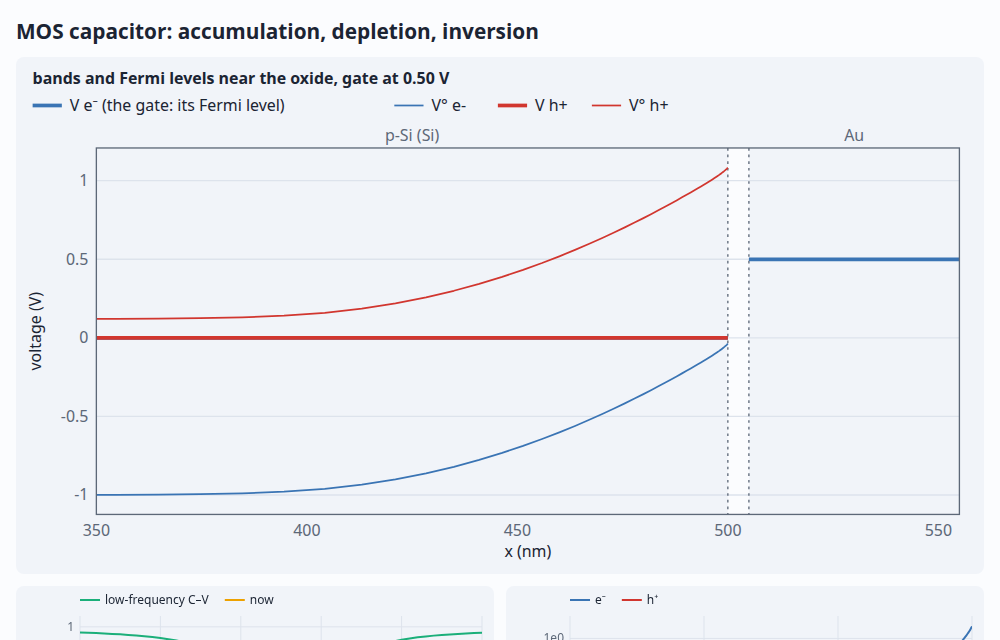
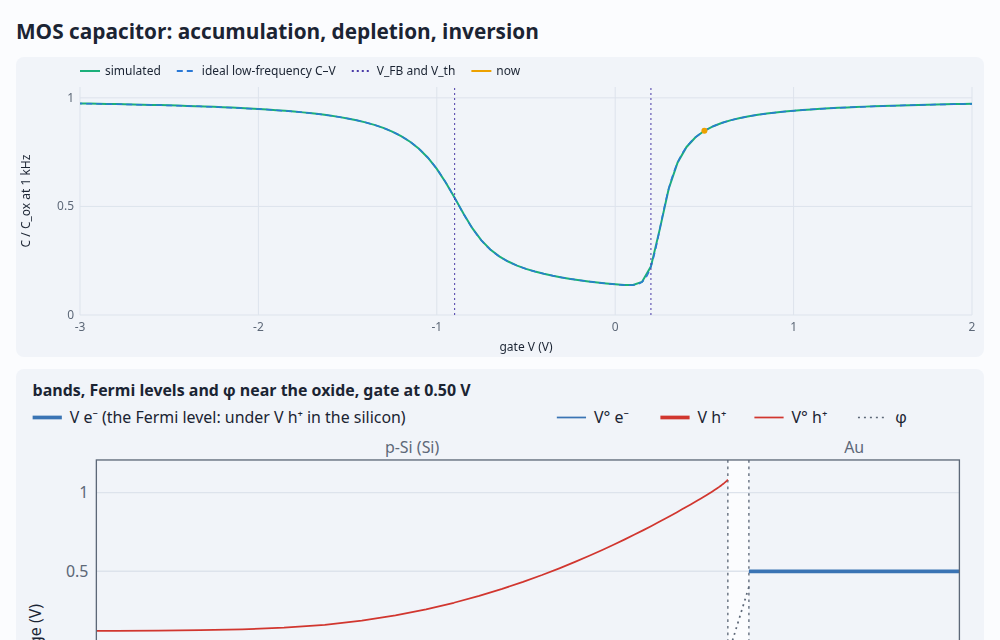
MOS demo: a doping control, the C–V against ideal low-frequency theory with V_FB and V_th, φ through the oxide, aligned densities

diff --git a/demos/mos.html b/demos/mos.html
@@ -10,89 +10,128 @@
 <main>
   <h1>MOS capacitor: accumulation, depletion, inversion</h1>
   <p>p-type silicon under 5 nm of oxide and a metal gate. The gate voltage sets the gate metal's Fermi level;
-    the silicon's bands bend at the surface to meet it. Negative bias pulls holes to the surface
-    (accumulation), moderate positive bias pushes them away (depletion), and beyond threshold electrons gather
-    in a thin inversion layer. Those electrons come from a port holding them at ground beside the oxide, the
-    1D stand-in for a transistor's source and drain; without it, they'd have to diffuse in from the back
-    contact. The capacitance at 1 kHz then follows the low-frequency C–V curve.</p>
+    the silicon's bands bend at the surface to meet it, and φ (dotted) drops straight across the oxide, its
+    slope the oxide field. (In the silicon φ runs along the conduction band edge, where the library's data
+    anchor it.) Negative bias pulls holes to the surface (accumulation), moderate positive bias
+    pushes them away (depletion), and beyond threshold electrons gather in a thin inversion layer. Those
+    electrons come from a port holding them at ground beside the oxide, the 1D stand-in for a transistor's
+    source and drain; without it, they'd have to diffuse in from the back contact.</p>
+  <p>The capacitance at 1 kHz follows the ideal low-frequency C–V curve (dashed: the oxide in series with the
+    silicon's dQ/dψ, from the closed-form surface charge), to four digits. Flat band is at
+    V<sub>FB</sub> = zeroCharge + φ<sub>bulk</sub>, set by the gate interface's work-function difference;
+    threshold is where the surface has inverted as strongly as the bulk is doped, ψ<sub>s</sub> = 2φ<sub>F</sub>.
+    More doping widens the window between them and deepens the dip.</p>
   <div class="controls">
     <label>gate V <input id="V" type="range" min="-3" max="2" step="0.05" value="0.5"><output id="Vout"></output></label>
+    <label>doping <input id="NA" type="range" min="16" max="18" step="0.25" value="17"><output id="NAout"></output></label>
     <span class="readout" id="Q"></span>
   </div>
   <div class="grid">
+    <canvas class="wide" id="cv"></canvas>
     <div class="levels wide" id="levels"></div>
-    <canvas id="cv"></canvas>
-    <canvas id="conc"></canvas>
+    <div class="levels wide" id="conc"></div>
   </div>
 </main>
 <script type="module">
-import { Device, EPS0, AVOGADRO, units } from '../src/index.js';
+import { Device, EPS0, AVOGADRO, FARADAY, GAS_CONSTANT, units } from '../src/index.js';
 import { build, layer, ohmic, semiconductor, metal, live } from '../src/kit.js';
 import { chart, colors } from './plot.js';
-import { levels, showCode, fromQuery, speciesColor } from './common.js';
+import { levels, profiles, showCode, fromQuery } from './common.js';
 
-const Lsi = units.um(0.5), tox = units.nm(5);
-const def = build({
-  T: 300,
-  library: [semiconductor('Si'), metal('Au')],
-  materials: { SiO2: { epsr: 3.9, species: {} } }, // an insulator: no mobile species
-  stack: [
-    ohmic(0), // the back contact
-    layer('Si', Lsi, { name: 'p-Si', acceptors: units.perCm3(1e17) }),
-    { dipole: 0 }, // Si | SiO2: φ continuous (the oxide has no levels of its own to align)
-    layer('SiO2', tox, { grid: { hmin: units.nm(0.5), hmax: units.nm(1) } }),
-    // Oxide | gate metal. Its zeroCharge, the gate's Fermi level minus φ there when it's uncharged,
-    // is a property of this interface (a work-function difference). φ in this p-Si bulk is −1.00 V
-    // (the library anchors φ at the conduction band), so the flat-band voltage is 0.1 − 1.0 = −0.9 V.
-    { phi: { type: 'capacitive', C: 100 }, zeroCharge: 0.1 },
-    layer('Au', units.nm(50)),
-    ohmic(0, ['e-']), // the gate's terminal
-  ],
-  // Source and drain in 1D: the inversion layer's electrons held at ground beside the oxide.
-  ports: [{ name: 'channel', region: 'p-Si', from: Lsi - units.nm(5), V: 0, terminal: 'e-', species: { 'e-': 'equilibrium' } }],
-  grid: { hmin: units.nm(0.1), hmax: units.nm(10), ratio: 1.1 },
-});
+const Lsi = units.um(0.5), tox = units.nm(5), zeroCharge = 0.1;
+const mos = (NA) =>
+  build({
+    T: 300,
+    library: [semiconductor('Si'), metal('Au')],
+    materials: { SiO2: { epsr: 3.9, species: {} } }, // an insulator: no mobile species
+    stack: [
+      ohmic(0), // the back contact
+      layer('Si', Lsi, { name: 'p-Si', acceptors: NA }),
+      { dipole: 0 }, // Si | SiO2: φ continuous (the oxide has no levels of its own to align)
+      layer('SiO2', tox, { grid: { hmin: units.nm(0.5), hmax: units.nm(1) } }),
+      // Oxide | gate metal. Its zeroCharge, the gate's Fermi level minus φ there when it's uncharged,
+      // is a property of this interface (a work-function difference): it sets the flat-band voltage.
+      { phi: { type: 'capacitive', C: 100 }, zeroCharge },
+      layer('Au', units.nm(50)),
+      ohmic(0, ['e-']), // the gate's terminal
+    ],
+    // Source and drain in 1D: the inversion layer's electrons held at ground beside the oxide.
+    ports: [{ name: 'channel', region: 'p-Si', from: Lsi - units.nm(5), V: 0, terminal: 'e-', species: { 'e-': 'equilibrium' } }],
+    grid: { hmin: units.nm(0.1), hmax: units.nm(10), ratio: 1.1 },
+  });
 
-// The C–V curve, once, from the small-signal impedance at 1 kHz at each gate voltage.
-const sweep = new Device(def), Cox = (3.9 * EPS0) / tox, cv = { V: [], C: [] };
-for (let V = -3; V <= 2.001; V += 0.1) {
-  sweep.set({ contacts: { right: { V } } });
-  const Z = sweep.impedance([1e3]).Z;
-  cv.V.push(V);
-  cv.C.push(-1 / (2 * Math.PI * 1e3 * Z.im[0]) / Cox);
+const gate = document.getElementById('V'), doping = document.getElementById('NA');
+fromQuery(gate);
+fromQuery(doping);
+const NA = () => units.perCm3(10 ** +doping.value); // from 1e16: below, depletion would reach the back contact
+
+// The ideal low-frequency C–V: the surface charge Q_s(ψ_s) in closed form (p₀, n₀ the bulk's
+// densities), the gate voltage V_FB + ψ_s − Q_s/C_ox, and C_ox in series with dQ_s/dψ_s.
+const kT = GAS_CONSTANT * 300, VT = kT / FARADAY, eps = 11.9 * EPS0, Cox = (3.9 * EPS0) / tox;
+function ideal({ p0, n0, VFB }) {
+  const Qs = (psi) => {
+    const b = psi / VT, F2 = Math.exp(-b) + b - 1 + (n0 / p0) * (Math.exp(b) - b - 1);
+    return -Math.sign(psi) * Math.sqrt(2 * eps * kT * p0 * Math.max(F2, 0));
+  };
+  const V = [], C = [];
+  for (let psi = -0.4; psi <= 1.4; psi += 0.005) {
+    const h = 1e-5, Cs = Math.abs(Qs(psi + h) - Qs(psi - h)) / (2 * h);
+    V.push(VFB + psi - Qs(psi) / Cox);
+    C.push(1 / (1 + Cox / Cs));
+  }
+  const phiF = VT * Math.log(p0 / Math.sqrt(p0 * n0));
+  return { V, C, VFB, Vth: VFB + 2 * phiF - Qs(2 * phiF) / Cox };
 }
 
-const dev = live(def, { onsolution: draw });
-const slider = document.getElementById('V');
-fromQuery(slider);
-slider.addEventListener('input', () => dev.set({ contacts: { right: { V: +slider.value } } }));
-dev.set({ contacts: { right: { V: +slider.value } } });
+// The C–V curve from the small-signal impedance at 1 kHz at each gate voltage, and the theory.
+let cv;
+function sweep() {
+  const dev = new Device(mos(NA())), rest = dev.solve(), bulk = Math.floor(rest.x.length / 5);
+  cv = { V: [], C: [], theory: ideal({ p0: rest.c['h+'][bulk], n0: rest.c['e-'][bulk], VFB: zeroCharge + rest.phi[bulk] }) };
+  for (let V = -3; V <= 2.001; V += 0.05) {
+    dev.set({ contacts: { right: { V } } });
+    cv.V.push(V);
+    cv.C.push(-1 / (2 * Math.PI * 1e3 * dev.impedance([1e3]).Z.im[0]) / Cox);
+  }
+}
+sweep();
+
+const dev = live(mos(NA()), { onsolution: draw });
+const update = () => dev.set({ contacts: { right: { V: +gate.value } } });
+gate.addEventListener('input', update);
+doping.addEventListener('input', () => (document.getElementById('NAout').textContent = `${(10 ** +doping.value).toExponential(1)} cm⁻³`));
+doping.addEventListener('change', () => {
+  sweep();
+  dev.set(mos(NA()));
+  update();
+});
+update();
 
 function draw(sol) {
-  const V = sol.terminals.right.V;
+  const V = sol.terminals.right.V, { VFB, Vth } = cv.theory;
   document.getElementById('Vout').textContent = `${V.toFixed(2)} V`;
+  document.getElementById('NAout').textContent = `${(10 ** +doping.value).toExponential(1)} cm⁻³`;
   const surface = sol.x.findLastIndex((x, g) => sol.region[g] === 0);
   const perCm3 = (c) => (c * AVOGADRO * 1e-6).toExponential(1);
-  document.getElementById('Q').textContent = `at the silicon surface: n = ${perCm3(sol.c['e-'][surface])} cm⁻³, p = ${perCm3(sol.c['h+'][surface])} cm⁻³`;
-  levels(document.getElementById('levels'), sol, {
-    title: `bands and Fermi levels near the oxide, gate at ${V.toFixed(2)} V`,
-    xlim: [Lsi - units.nm(150), sol.x.at(-1)],
-    labels: { 'V:e-': 'V e⁻ (the gate: its Fermi level)' },
-  });
+  document.getElementById('Q').textContent =
+    `V_FB = ${VFB.toFixed(2)} V · V_th = ${Vth.toFixed(2)} V · at the silicon surface: n = ${perCm3(sol.c['e-'][surface])} cm⁻³, p = ${perCm3(sol.c['h+'][surface])} cm⁻³`;
   chart(document.getElementById('cv'), {
-    xlabel: 'gate V (V)', ylabel: 'C / C_ox at 1 kHz', ylim: [0, 1.05],
+    xlabel: 'gate V (V)', ylabel: 'C / C_ox at 1 kHz', xlim: [-3, 2], ylim: [0, 1.05],
     series: [
-      { x: cv.V, y: cv.C, color: colors[2], label: 'low-frequency C–V' },
-      { x: [V], y: [cv.C[Math.round((V + 3) / 0.1)]], color: colors[3], marker: true, width: 0, label: 'now' },
+      { x: cv.V, y: cv.C, color: colors[2], label: 'simulated' },
+      { x: cv.theory.V, y: cv.theory.C, color: colors[0], dash: [6, 4], width: 1.5, label: 'ideal low-frequency C–V' },
+      { x: [VFB, VFB, NaN, Vth, Vth], y: [0, 1.05, NaN, 0, 1.05], color: colors[6], dash: [2, 3], width: 1, label: 'V_FB and V_th' },
+      { x: [V], y: [cv.C[Math.round((V + 3) / 0.05)]], color: colors[3], marker: true, width: 0, label: 'now' },
     ],
   });
-  chart(document.getElementById('conc'), {
-    xscale: 1e9, xlabel: 'x (nm)', ylabel: 'concentration (mol/m³)', logy: true, xlim: [(Lsi - units.nm(150)) * 1e9, Lsi * 1e9],
-    series: [
-      { x: sol.x, y: sol.c['e-'], color: speciesColor(sol, 'e-'), label: 'e⁻' },
-      { x: sol.x, y: sol.c['h+'], color: speciesColor(sol, 'h+'), label: 'h⁺' },
-    ],
+  const xlim = [Lsi - units.nm(150), sol.x.at(-1)];
+  levels(document.getElementById('levels'), sol, {
+    title: `bands, Fermi levels and φ near the oxide, gate at ${V.toFixed(2)} V`,
+    phi: true,
+    xlim,
+    labels: { 'V:e-': 'V e⁻ (the Fermi level: under V h⁺ in the silicon)' },
   });
+  profiles(document.getElementById('conc'), sol, { species: ['e-', 'h+'], title: 'carrier densities', ylabel: 'density (cm⁻³)', scale: AVOGADRO * 1e-6, log: true, xlim });
 }
 showCode();
 </script>

diff --git a/demos/index.html b/demos/index.html
@@ -17,7 +17,7 @@
   <div class="cards">
     <a class="card" href="pn.html"><img src="screenshots/pn.png" alt="pn junction level diagram"><div><b>pn junction</b><span>Quasi-Fermi levels and band edges under bias; the I–V curve against Shockley, short diode to long.</span></div></a>
     <a class="card" href="solar.html"><img src="screenshots/solar.png" alt="solar cell"><div><b>Solar cell</b><span>Photogeneration from a photon reservoir: J–V, V<sub>oc</sub> and J<sub>sc</sub> against collection theory, the split quasi-Fermi levels.</span></div></a>
-    <a class="card" href="mos.html"><img src="screenshots/mos.png" alt="MOS capacitor"><div><b>MOS capacitor</b><span>Accumulation, depletion and inversion under a metal gate; the low-frequency C–V curve.</span></div></a>
+    <a class="card" href="mos.html"><img src="screenshots/mos.png" alt="MOS capacitor"><div><b>MOS capacitor</b><span>Accumulation, depletion and inversion under a metal gate; the C–V curve against ideal theory, V<sub>FB</sub> and V<sub>th</sub>.</span></div></a>
   </div>
 
   <h2>Electrochemistry</h2>
